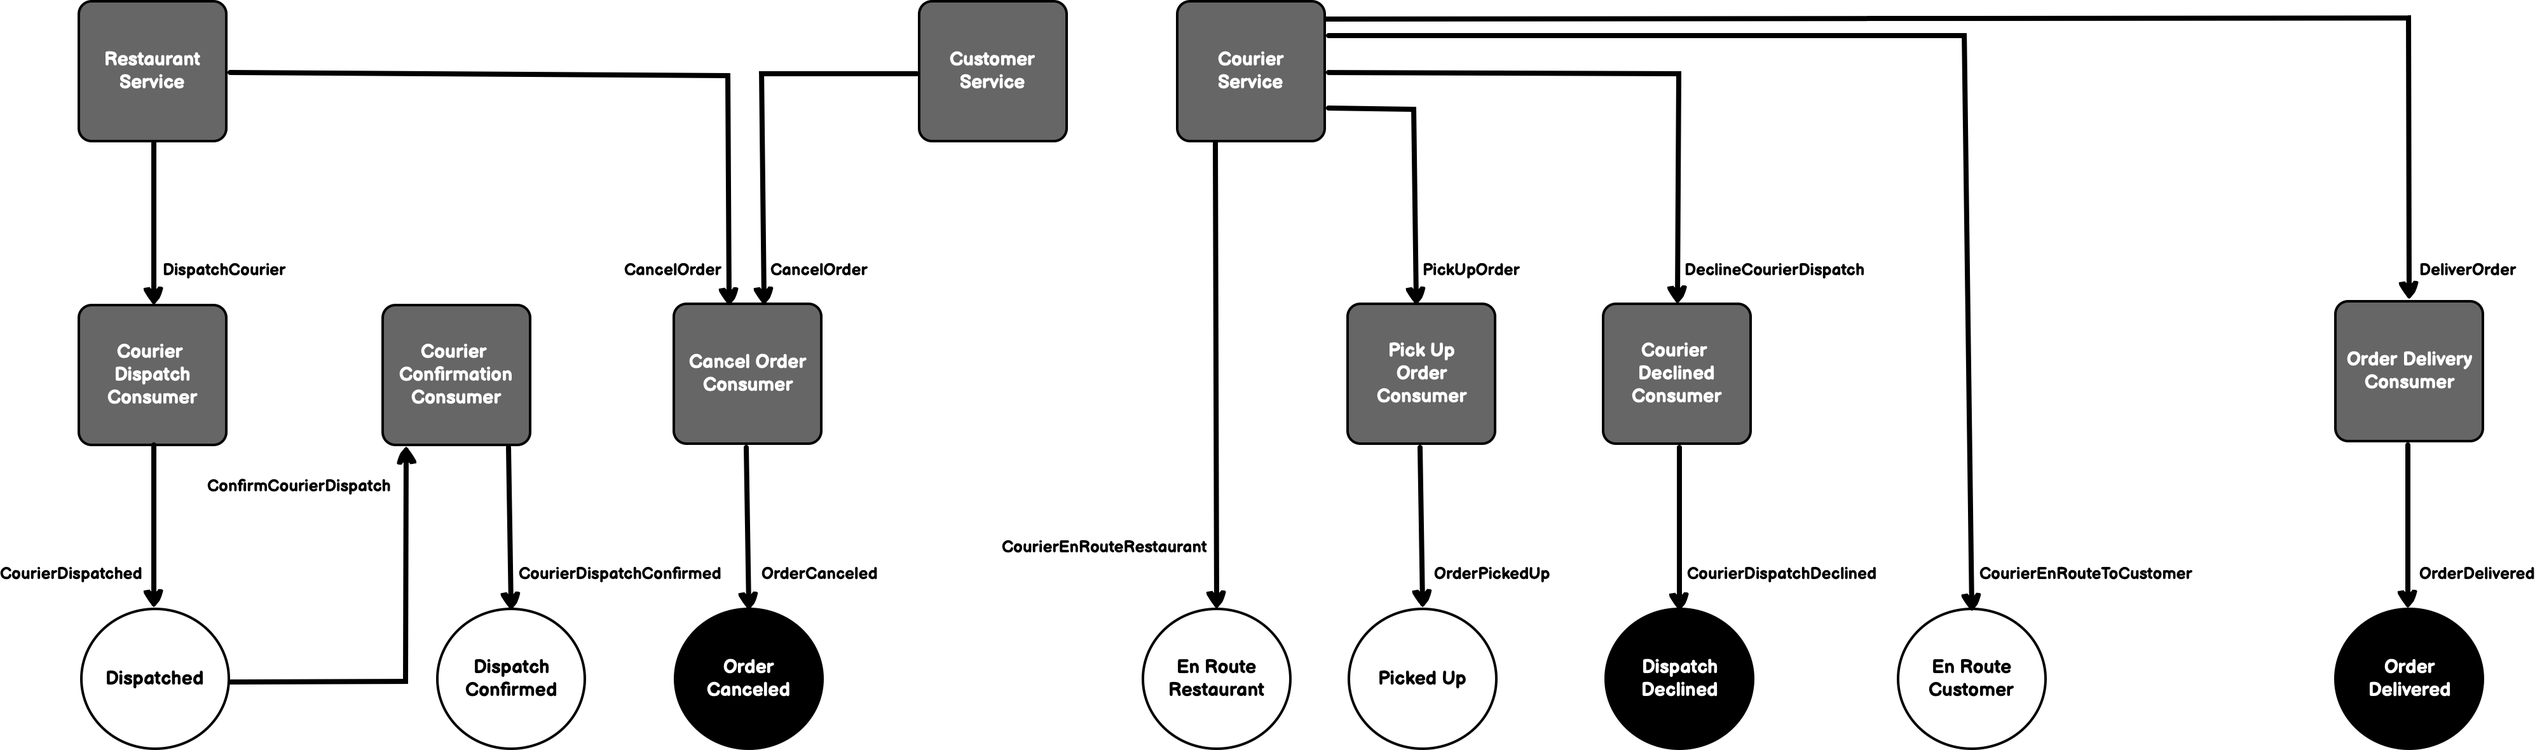
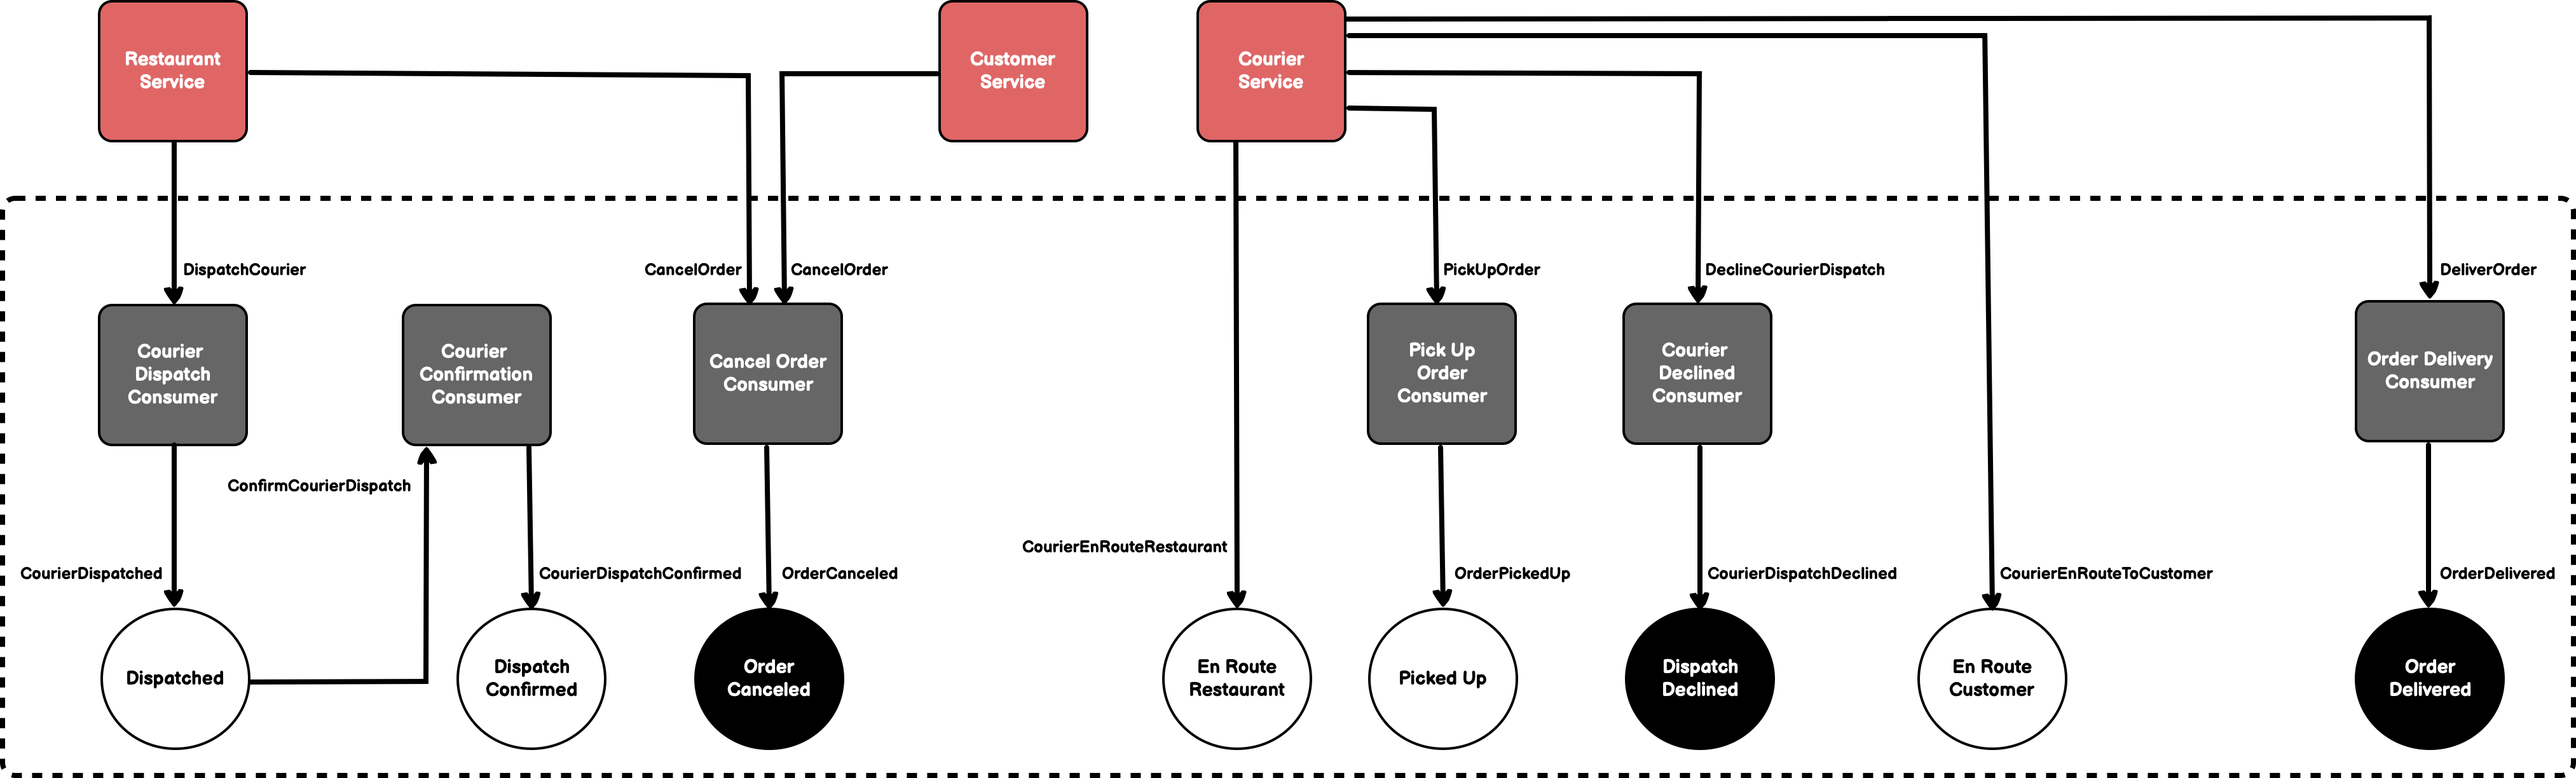
updated readme

diff --git a/README.md b/README.md
@@ -92,7 +92,9 @@ courier so that can confirm or decline delivery of the order. If the courier con
 location to pick up the order. If the courier declines the request, the restaurant must dispatch a new courier or cancel the order. An order can be canceled
 by either the customer, restaurant, or courier at different points in the workflow. A customer or restaurant can cancel an order up until the point when the
 order is picked up by a courier. A courier can only cancel an order after he/she has picked up said order in route to the customer. When a courier requests
-that an order be canceled, the restaurant must make a decision on whether or not dispatch a new courier or discard the order.
+that an order be canceled, the restaurant must make a decision on whether or not dispatch a new courier or discard the order. The courier will send
+notifications when he/she is en route to the restaurant, has picked up the order, when he/she is en route to the customer and when the order is delivered.
+These notifications are sent via the courier service.
 
 #### State Machine
 
@@ -136,7 +138,7 @@ Check the below links:
 The state machine diagram in Figure 5 represents a rendering of how states are transitioned by certain events. Figure 6 represents how the various tasks are
 orchestrated so that state transitions can take place.
 
-![Courier State Machine with Consumers Diagram](CourierStateMachineWithConsumers.png)
+![Courier State Machine with Consumers/Service Diagram](CourierStateMachineWithConsumers.png)
 
 **Figure 6**
 
